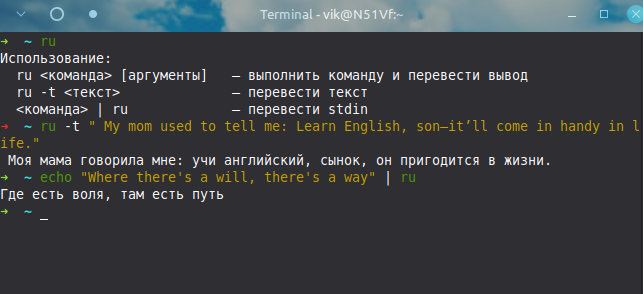
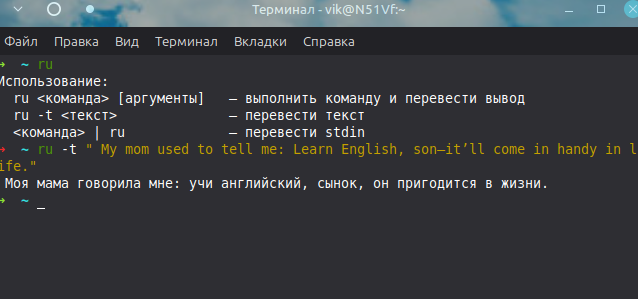
обновлено фото

Changed region(s): [[0.0, 0.1837, 1.0, 0.7347], [0.0, 0.0, 1.0, 0.1531], [0.3871, 0.2449, 0.8339, 0.2755]]

diff --git a/README.md b/README.md
@@ -1,3 +1,12 @@
-Russian‑to‑English translator in the terminal
+# Russian‑to‑English translator in the terminal
+
+## read the full manual -- [README-RU.md](./README-ru.md)
 
 ![terminal](/images/terminal.png)
+
+
+[![Tests](https://github.com/StudentVik74/Zsh-translate/actions/workflows/test.yml/badge.svg)](https://github.com/StudentVik74/Zsh-translate/actions/workflows/test.yml)
+[![Coverage: 97%](https://img.shields.io/badge/coverage-97%25-brightgreen.svg?style=flat-square)](#тесты)
+[![License: MIT](https://img.shields.io/badge/License-MIT-yellow.svg?style=flat-square)](LICENSE)
+[![Python 3.12+](https://img.shields.io/badge/python-3.12+-blue.svg?style=flat-square&logo=python&logoColor=white)](https://www.python.org/downloads/)
+[![Platform](https://img.shields.io/badge/platform-Windows_%7C_Linux_%7C_macOS-lightgrey.svg?style=flat-square)](#установка)
